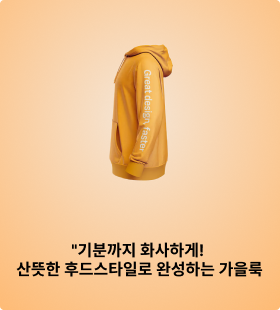
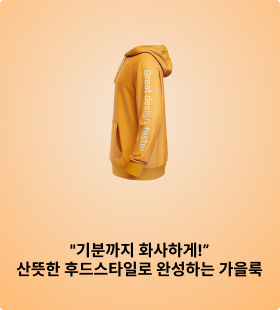
typo 수정

Changed region(s): [[0.2286, 0.7839, 0.7429, 0.8419]]

diff --git a/oxquiz_intro.html b/oxquiz_intro.html
@@ -59,7 +59,7 @@
                             <img src="static/images/quiz/img_guide2.png" alt="guide2">
                         </li>
                         <li>
-                            <p>이미지는 <b>제품이 짤리거나 한쪽으로<br> 치우지지 않게</b> 밸런스를 맞춰야 합니다.</p>
+                            <p>이미지는 <b>제품이 잘리거나 한쪽으로<br> 치우지지 않게</b> 밸런스를 맞춰야 합니다.</p>
                             <img src="static/images/quiz/img_guide3.png" alt="guide3">
                         </li>
                         <li>
